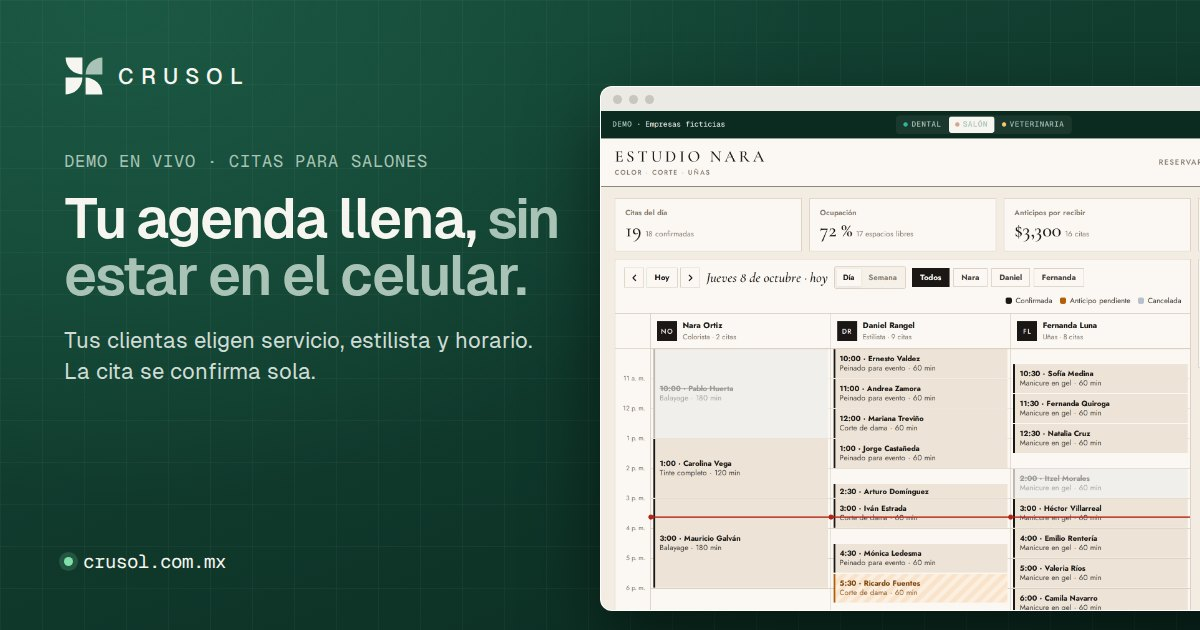
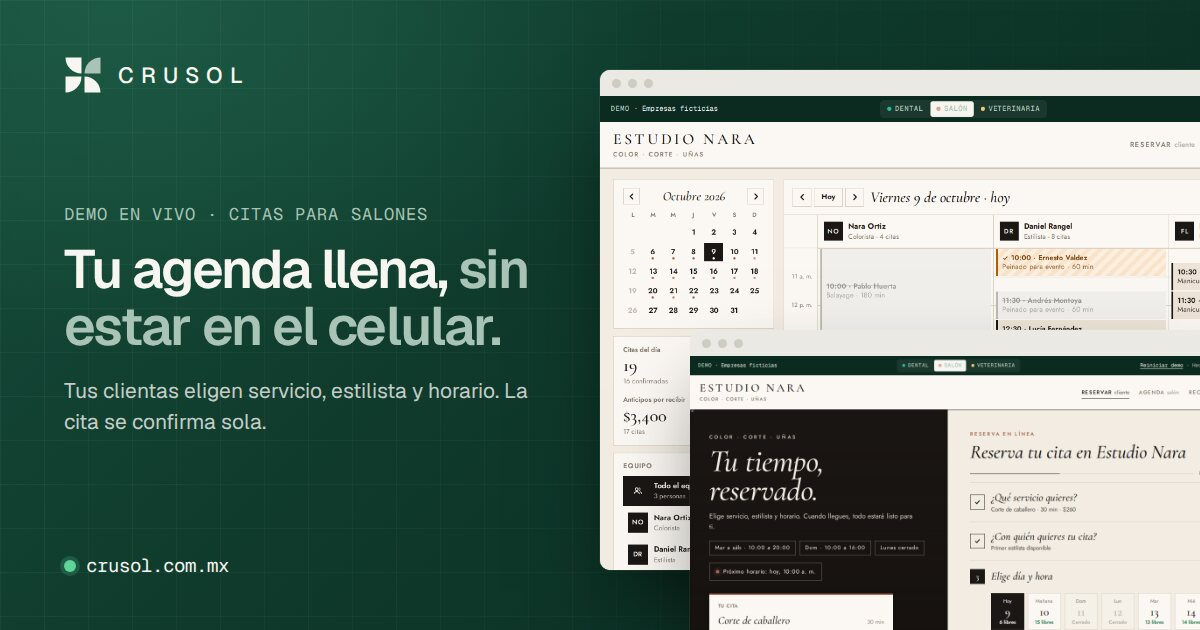
Actualiza el portafolio, las vistas previas y la guía con los nuevos demos
Claude-Session: https://claude.ai/code/session_01CpUtdUoAJ3Lj4FZGRKTJKD

diff --git a/index.html b/index.html
@@ -1107,11 +1107,11 @@ try{(function(){var r=document.referrer?new URL(document.referrer):null,pt=docum
       <span class="fchip c1 rv" aria-hidden="true"><i><svg viewBox="0 0 24 24" fill="none" stroke="currentColor" stroke-width="1.6" stroke-linecap="round" stroke-linejoin="round" aria-hidden="true"><rect x="4" y="3.5" width="16" height="17" rx="2"/><path d="M8 8h8M8 12h8M8 16h4"/></svg></i>Formulario de cotización</span><span class="fchip c2 rv" aria-hidden="true"><i><svg viewBox="0 0 24 24" fill="none" stroke="currentColor" stroke-width="1.6" stroke-linecap="round" stroke-linejoin="round" aria-hidden="true"><path d="M3.5 12.5V4h8.5l8.5 8.5-8.5 8.5z"/><circle cx="8" cy="8" r="1.4"/></svg></i>Catálogo con fichas técnicas</span><span class="fchip c3 rv" aria-hidden="true"><i><svg viewBox="0 0 24 24" fill="none" stroke="currentColor" stroke-width="1.6" stroke-linecap="round" stroke-linejoin="round" aria-hidden="true"><rect x="7" y="2.5" width="10" height="19" rx="2.2"/><path d="M11 18.5h2"/></svg></i>Listo para celular</span><span class="fchip c4 rv" aria-hidden="true"><i><svg viewBox="0 0 24 24" fill="none" stroke="currentColor" stroke-width="1.6" stroke-linecap="round" stroke-linejoin="round" aria-hidden="true"><path d="M2.5 12S6 5.5 12 5.5 21.5 12 21.5 12 18 18.5 12 18.5 2.5 12 2.5 12z"/><circle cx="12" cy="12" r="2.8"/></svg></i>Visitas y solicitudes medidas</span>
       <a class="bw tilt rv" href="sitios/arce/" data-cur="Ver sitio" aria-label="Abrir demo del sitio corporativo">
         <div class="top"><span class="dots"><i></i><i></i><i></i></span><span class="url"><svg viewBox="0 0 16 16" fill="none" stroke="currentColor" stroke-width="1.6" aria-hidden="true"><rect x="3" y="7" width="10" height="7" rx="1.5"/><path d="M5.5 7V5a2.5 2.5 0 0 1 5 0v2"/></svg>suministrosarce.mx</span><span class="fict">Empresa ficticia</span></div>
-        <span class="vp" data-w="1280" data-h="800"><iframe src="sitios/arce/?v=1009" title="Demo de sitio corporativo" loading="lazy" tabindex="-1" class="on"></iframe></span>
+        <span class="vp" data-w="1280" data-h="800"><iframe src="sitios/arce/?v=1010" title="Demo de sitio corporativo" loading="lazy" tabindex="-1" class="on"></iframe></span>
       </a>
       <a class="phone rv d2" id="phone" href="sitios/arce/" data-cur="Ver sitio" aria-label="Abrir demo del sitio en celular" tabindex="-1">
         <span class="nt"></span>
-        <span class="vp" data-w="390" data-h="844"><iframe src="sitios/arce/?v=1009" title="Demo de sitio corporativo en celular" loading="lazy" tabindex="-1" class="on"></iframe></span>
+        <span class="vp" data-w="390" data-h="844"><iframe src="sitios/arce/?v=1010" title="Demo de sitio corporativo en celular" loading="lazy" tabindex="-1" class="on"></iframe></span>
       </a>
     </div>
     <ul class="cols">
@@ -1221,7 +1221,7 @@ try{(function(){var r=document.referrer?new URL(document.referrer):null,pt=docum
 (function(){
   var still=window.matchMedia&&window.matchMedia("(prefers-reduced-motion: reduce)").matches;
   var fine=window.matchMedia&&window.matchMedia("(hover:hover) and (pointer:fine)").matches;
-  var V="1009";
+  var V="1010";
   function $(id){return document.getElementById(id)}
   function clamp(v,a,b){return v<a?a:v>b?b:v}
 
@@ -1325,11 +1325,11 @@ try{(function(){var r=document.referrer?new URL(document.referrer):null,pt=docum
 
   /* sistemas de ejemplo */
   var SYS=[
-    {u:"sistemas/cotizador/",url:"cotizador",k:"Cotizador",n:"Cotizador industrial",a:"Ventas · distribuidora de material industrial",t:"Cotizaciones que ya saben qué hay en almacén.",d:"Catálogo con existencias por almacén, precios según la lista de cada cliente y escalas por volumen. La cotización sale en PDF con tu imagen y folio.",f:["Existencias por almacén y fecha de surtido","Listas de precios por cliente y por volumen","Historial con tasa de cierre y productos más cotizados"]},
-    {u:"sistemas/tablero/",url:"tablero",k:"Tablero",n:"Tablero de dirección",a:"Dirección · cadena con sucursales",t:"Toda la empresa en una sola pantalla.",d:"Ventas, margen, cartera e inventario con los datos de tu operación, filtrados por periodo y sucursal.",f:["Indicadores comparados contra el periodo anterior","Alertas de inventario con orden de compra en un clic","Reporte en PDF que llega solo cada lunes"]},
-    {u:"sistemas/requisiciones/",url:"requisiciones",k:"Requisiciones",n:"Requisiciones",a:"Compras · planta industrial",t:"Compras aprobadas, con orden y con presupuesto.",d:"Cada solicitud sigue una ruta de aprobación según su monto y se revisa contra el presupuesto del área antes de volverse orden de compra.",f:["Ruta por monto: gerente, finanzas y dirección","Control de presupuesto por centro de costo","Historial de quién aprobó, cuándo y por qué"]},
-    {u:"sistemas/agenda/",url:"agenda",k:"Agenda",n:"Agenda de citas",a:"Consultorios, salones y veterinarias",t:"Citas reales, sin llamadas ni empalmes.",d:"Tus pacientes o clientes reservan desde el celular a cualquier hora. Cada cita se confirma con un código que les llega por WhatsApp, así no se registran citas falsas ni números ajenos.",f:["Verificación del celular con código por WhatsApp","Horarios sin empalmes y anticipo para apartar","Recordatorio automático un día antes"]},
-    {u:"sistemas/taller/",url:"taller",k:"Taller",n:"Seguimiento de servicio",a:"Talleres y servicio técnico",t:"Tus clientes saben cómo va su auto sin llamar.",d:"Con su folio y su placa, el cliente ve en qué etapa va su vehículo, revisa la cotización y la autoriza desde el celular. Cada cambio de etapa le llega por WhatsApp.",f:["Tablero por etapas para el equipo del taller","Autorización de la cotización en línea","Aviso automático en cada cambio de etapa"]}
+    {u:"sistemas/cotizador/",url:"cotizador",k:"Cotizador",n:"Cotizador industrial",a:"Ventas · distribuidora de material industrial",t:"Cotizaciones que ya saben qué hay en almacén.",d:"La cotización se arma sobre la hoja membretada de tu empresa: catálogo con existencias por almacén, precios según la lista de cada cliente, escalas por volumen y flete. Sale con folio, vigencia y sello.",f:["Existencias por almacén y fecha de surtido","Crédito del cliente y flete gratis a la vista","Archivo de cotizaciones con su estado y lo más pedido"]},
+    {u:"sistemas/tablero/",url:"tablero",k:"Tablero",n:"Tablero de dirección",a:"Dirección · cadena con sucursales",t:"Tu empresa, explicada en una página.",d:"Un informe que se escribe solo con los datos de tu operación: titular, cifras clave, cobranza, clientes y avisos de inventario, filtrado por periodo y sucursal.",f:["Titular y resumen escritos con tus números","Avisos de inventario con orden de compra en un clic","Envío programado en PDF cada lunes"]},
+    {u:"sistemas/requisiciones/",url:"requisiciones",k:"Requisiciones",n:"Requisiciones",a:"Compras · planta industrial",t:"Compras aprobadas, con orden y con presupuesto.",d:"Cada requisición llega a la mesa de quien debe firmarla, según su monto, y se revisa contra el presupuesto del área antes de volverse orden de compra.",f:["Firma o rechazo en un clic o deslizando la hoja","Ruta por monto: gerente, finanzas y dirección","Presupuesto por centro de costo siempre a la vista"]},
+    {u:"sistemas/agenda/",url:"agenda",k:"Agenda",n:"Agenda de citas",a:"Consultorios, salones y veterinarias",t:"Citas reales, sin llamadas ni empalmes.",d:"Tus pacientes o clientes reservan desde el celular en una sola página, a cualquier hora. Cada cita se confirma con un código que les llega por WhatsApp, así no se registran citas falsas ni números ajenos.",f:["Verificación del celular con código por WhatsApp","Horarios sin empalmes y anticipo para apartar","Recordatorio automático un día antes"]},
+    {u:"sistemas/taller/",url:"taller",k:"Taller",n:"Seguimiento de servicio",a:"Talleres y servicio técnico",t:"Tus clientes saben cómo va su auto sin llamar.",d:"El taller trabaja con un tablero de llegadas: cada vehículo con su etapa, su entrega y su estado. Con su folio y su placa, el cliente ve el avance, revisa la cotización y la autoriza desde el celular.",f:["Tablero en vivo con etapas, entregas y retrasos","Autorización de la cotización en línea","Aviso por WhatsApp en cada cambio de etapa"]}
   ];
   var tabsEl=$("systabs"),sysb=$("sysb"),svp=$("sysvp"),info=$("sysinfo"),cta=$("syscta"),cur=-1,tabs=[],ptimer=null;
   var auto=!still&&innerWidth>=960;

diff --git a/sistemas/tablero/index.html b/sistemas/tablero/index.html
@@ -10,7 +10,7 @@
 <meta property="og:locale" content="es_MX">
 <meta property="og:url" content="https://crusol.com.mx/sistemas/tablero/">
 <meta property="og:title" content="Tablero de dirección · Demo de crusol">
-<meta property="og:description" content="Ventas, margen, cartera e inventario de toda la empresa en una sola pantalla, por periodo y sucursal.">
+<meta property="og:description" content="Un informe de ventas, margen, cobranza e inventario que se escribe solo, por periodo y sucursal.">
 <meta property="og:image" content="https://crusol.com.mx/og/og-tablero.jpg">
 <meta property="og:image:width" content="1200">
 <meta property="og:image:height" content="630">

diff --git a/CLAUDE.md b/CLAUDE.md
@@ -23,26 +23,28 @@ Sitio de **crusol**, estudio de Angel Cruz: software a la medida, automatizació
   - Íconos de línea que se dibujan (`.ico`, trazos con `pathLength="1"`) en los principios y en Proceso. Etiquetas flotantes (`.fchip`) alrededor de los dispositivos de Sitios web y resplandor detrás de la ventana de demos (`.sysw .glow`).
   - Cuidado con choques de nombres: `.m` es de los mensajes del chat (la tabla del comparador usa `.tm`), `.lbl` es la etiqueta de sección y el cursor usa `.cl`.
   - Contacto: "Arma tu correo" (temas + nombre + empresa) redacta el `mailto` del botón `#mail-2`; no guarda nada. Pie con columnas (demos, secciones, contacto y aviso de privacidad).
-- `fonts/`: Geist y Geist Mono variables servidas desde el propio sitio (licencia OFL en `fonts/OFL.txt`); ya no se usa Google Fonts en `index.html`, `404.html` ni `privacidad.html`.
+- `fonts/`: Geist y Geist Mono variables servidas desde el propio sitio (licencia OFL en `fonts/OFL.txt`); ya no se usa Google Fonts en ninguna página. Las tipografías de los demos están en `fonts/demos/` (woff2 de @fontsource, solo latín, con su `OFL.txt`); cada demo las declara con `@font-face` y ruta `../../fonts/demos/`.
 - `privacidad.html`: aviso de privacidad (sin cookies, GoatCounter anónimo, demos en localStorage).
 - SEO: JSON-LD en `index.html`, `sitemap.xml`, `robots.txt` y `site.webmanifest` (vistas previas en `og/`, ver abajo). Si se agrega un demo, sumarlo al `sitemap.xml`, al pie del portafolio y al `404.html`.
 - Transición entre páginas: el portafolio baja una cortina verde al abrir un demo; cada demo (y el sitio Arce) trae al inicio del `<body>` el bloque `#crin`, que termina de subir esa cortina solo si llegaste desde el portafolio (no aparece dentro de los iframes ni en visitas directas). Al volver de un demo, el portafolio hace lo mismo.
 - `sistemas/`: cada demo tiene su propia empresa ficticia y su propio estilo visual (no reutilizar el mismo diseño entre demos):
-  - `cotizador/`: Suministros Arce (distribuidor de material industrial y EPP). Catálogo con normas y existencias por almacén, listas de precios por cliente, escalas por volumen y flete; la cotización se arma sobre la hoja. Archivo condensada + IBM Plex Mono, amarillo #F2B705 y azul #1F4E79. Estado en `crusol_cotizador_demo_v2`.
-  - `tablero/`: Mercantil Alba (distribuidora, sucursales Centro, Poniente y Oriente). Terminal oscura: Barlow Condensed + JetBrains Mono, ámbar #F5B342, cinta de indicadores.
-  - `requisiciones/`: Envases Cumbre (planta de envases). Papeleo formal: Newsreader + Public Sans + Courier Prime, firmas y sellos en la ruta de aprobación.
+  - `cotizador/`: ARCE Suministros Industriales (distribuidor de material industrial y EPP). Formato de documento: riel lateral + escritorio punteado con la hoja membretada al centro (sello de vigencia que cambia 7/15/30 días, cliente en línea, partidas con cantidad editable, buscador con autocompletado y atajo "/") e inspector a la derecha (crédito del cliente, avance al flete gratis, existencias por CEDIS Norte, Bajío y sobre pedido). Vista de archivo con fichas y sellos. Marcas ficticias (Visor Pro, Nitra, Silentia, etc.). Schibsted Grotesk + DM Mono, rojo #D7261E y grafito. Estado en `crusol_cotizador_demo_v2`.
+  - `tablero/`: Mercantil Alba (distribuidora, sucursales Centro, Poniente y Oriente). "El Informe Alba": periódico de dirección con cabecera, edición del lunes, titular que se escribe solo con los datos, cifra grande, gráfica anotada (mejor mes y promedio) y columnas de indicadores, ventas por línea, cobranza, clientes, avisos de inventario y pendientes. Fraunces + Instrument Sans, crema #F4EFE6 y ámbar #D9891C.
+  - `requisiciones/`: Envases Cumbre (planta de envases). "Mesa de firmas": escritorio azul marino (#17202C) con la pila de hojas pendientes; la de arriba se firma o rechaza con botones, con las flechas del teclado o arrastrándola a un lado (sello animado). Expedientes y Presupuesto por centro de costo; modal de nueva requisición. Newsreader + Public Sans + Courier Prime, firmas en Mrs Saint Delafield. La clase de la hoja activa es `.front` (no `.top`, que es el encabezado).
   - Todos llevan arriba la barra `.cbar` de crusol (verde #0b2a20, Geist Mono) con "Demo · Empresa ficticia", reinicio y liga a crusol.
   - El tablero usa un PRNG con semilla por filtro para que los datos no cambien al redimensionar.
   - Requisiciones guarda su estado en localStorage (`crusol_requisiciones_demo_v1`).
 - `sistemas/agenda/`: agenda de citas con 3 giros ficticios (Clínica Dental Alameda, Estudio Nara, Veterinaria Huellas del Bosque), objeto `B` en el JS.
-  - Cada giro tiene su tema en CSS con `html[data-g="dental|salon|vet"]`: dental clínico (Manrope, menta), salón editorial (Cormorant Garamond + Jost, negro y crema, sin esquinas), veterinaria amable (Fredoka + Nunito, bordes gruesos y sombras desplazadas). Fotos de Unsplash en la portada de "Reservar".
+  - Cada giro tiene su tema en CSS con `html[data-g="dental|salon|vet"]`: dental clínico (Manrope, menta), salón editorial (Cormorant Garamond + Jost, negro y crema, sin esquinas), veterinaria amable (Fredoka + Nunito, bordes gruesos y sombras desplazadas). Fotos de Unsplash en la mitad izquierda de "Reservar".
   - Vistas: Reservar (cliente), Agenda (consultorio) y Recordatorios. Parámetros `?giro=dental|salon|vet` y `?vista=reservar|agenda|recordatorios`; dentro de un iframe abre en Agenda.
+  - Reservar es pantalla dividida: foto del lugar fija a la izquierda (`.rsl`, con el resumen `#rsum`) y a la derecha los 5 pasos en una sola página (`.st` con estados `past`, `on`, `todo`; no usar `.done`, que es la confirmación). En celular la foto queda arriba y el resumen pasa a una barra fija (`.mbar`).
+  - Agenda: calendario del mes, indicadores y equipo en la columna lateral (`.side`); el detalle de la cita se abre en un panel (`#det`).
   - Las citas de ejemplo se generan relativas a la fecha de hoy; estado en localStorage (`crusol_agenda_demo_v1`), se regenera si tiene 5 días o más.
   - La reserva pide verificar el celular con un código de 6 dígitos "enviado por WhatsApp" (simulado, se muestra en pantalla) para evitar citas falsas.
-- `sistemas/taller/`: Taller Ríos, seguimiento de servicio automotriz. Industrial oscuro: Big Shoulders Display + Saira + Space Mono, naranja #FF6B1A.
-  - Vistas: Taller (tablero por etapas con panel de detalle), Seguimiento del cliente (folio + últimos 3 de la placa, autoriza cotización) y Mensajes (WhatsApp simulado por etapa).
+- `sistemas/taller/`: Taller Ríos, seguimiento de servicio automotriz. Tablero de llegadas tipo aeropuerto con letras que giran (`flap()`/`setF()`): etapa, entrega y estado de cada vehículo, reloj, cifras y cinta de avisos. Big Shoulders Display + Saira + Space Mono, naranja #FF6B1A.
+  - Vistas: Taller (tablero con panel de orden de servicio), Seguimiento del cliente (folio + últimos 3 de la placa; pase de servicio y cotización como ticket que se autoriza) y Mensajes (bitácora y WhatsApp simulado por etapa).
   - Parámetros `?vista=cliente|mensajes` y `?folio=TR-1042`. Estado en `crusol_taller_demo_v1`.
-- `sitios/arce/`: demo de sitio corporativo B2B (Archivo + Inter, azul #1F4E79, amarillo #F2B705).
+- `sitios/arce/`: demo de sitio corporativo B2B de ARCE (la misma empresa del cotizador). Schibsted Grotesk + DM Mono, rojo #D7261E, tinta #141414 y papel #F3F1EC. Buscador ("/"), cotización en cajón con cantidades (`arce_sitio_cot_v1`), cuenta regresiva al corte de las 14:00 (hora de México), catálogo con imagen que sigue al cursor, productos con filtros, industrias, ruta del camión al hacer scroll, portal de clientes que liga al cotizador y contacto con horario del CEDIS. Fotos de Unsplash.
 - `facebook/`: logos, portadas e imágenes de publicaciones.
 - Carpetas viejas (`barberia`, `estetica`, `taqueria`, `unas`, `ropa`, `muestras`) son demos anteriores para negocios pequeños; ya no se muestran en el portafolio.
 
